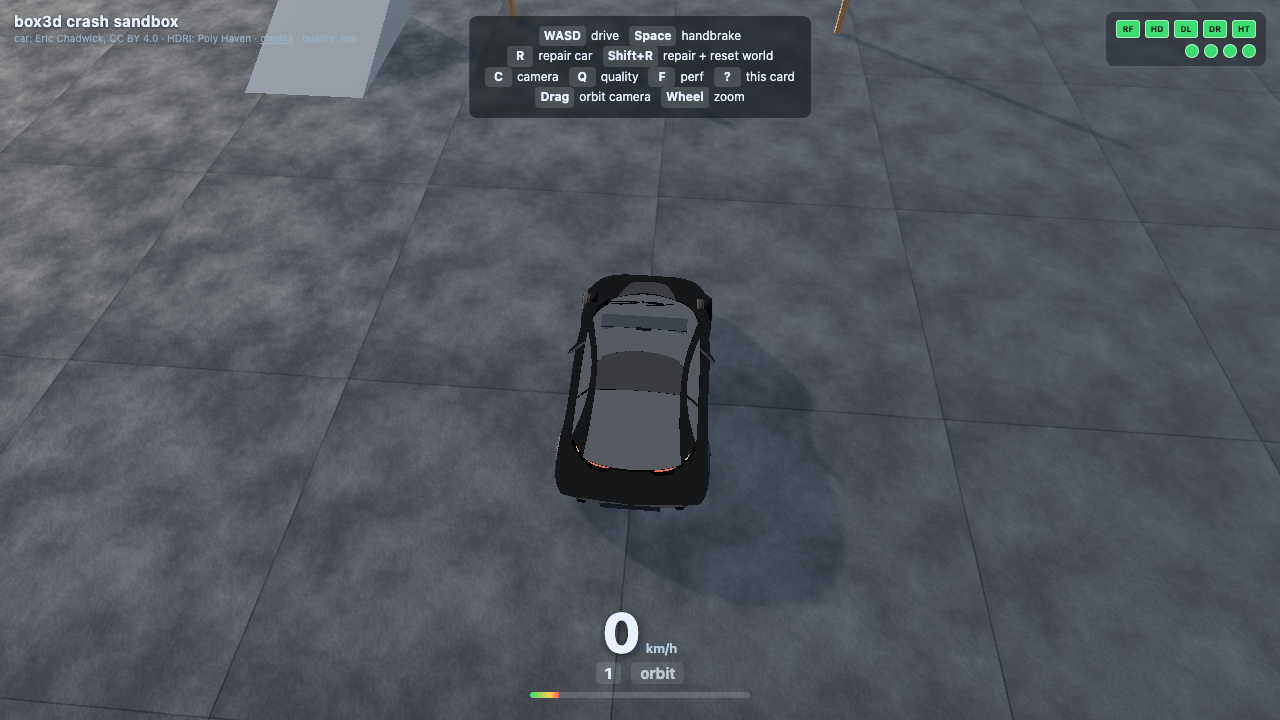
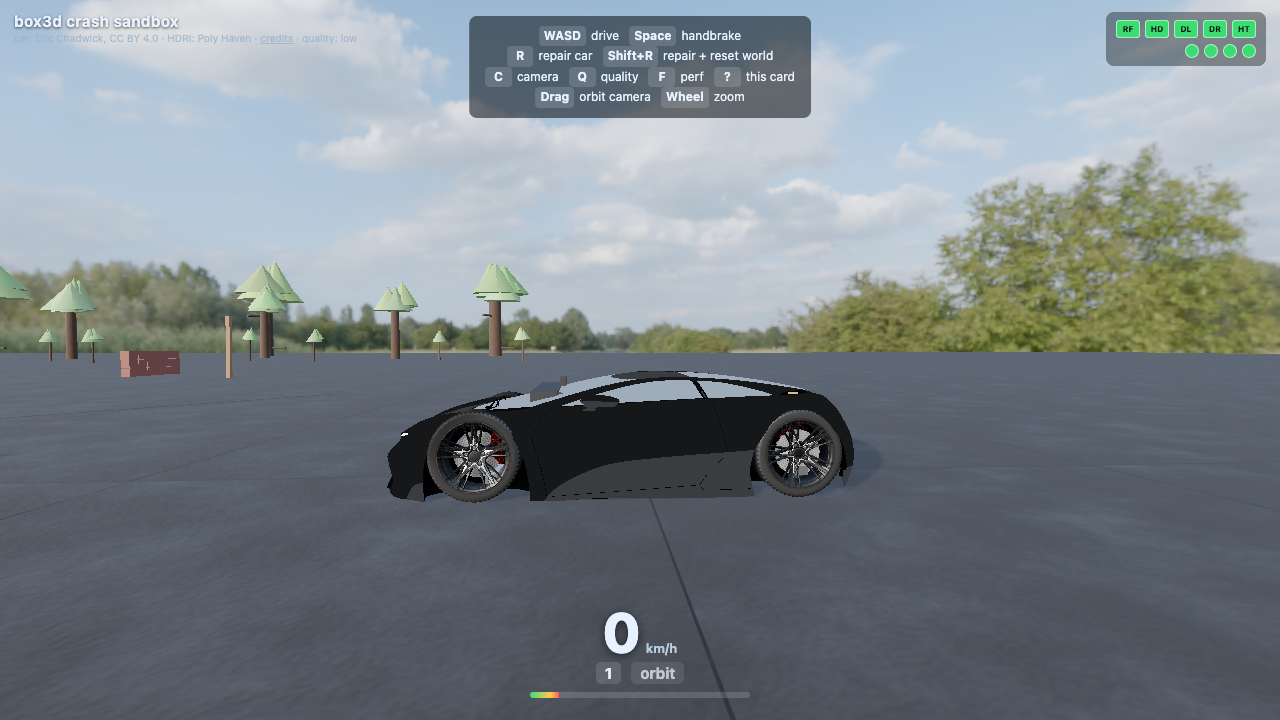
Camera drag: fix inverted axes + click-snap (takeover-seed from live camera pose)
User playtest: drag felt inverted, and clicking lurched the view. Root causes:
first-pass sign convention, and the user-orbit controller only ever seeded at
boot/C-cycle so activating it mid-chase damped toward a stale pose. Drag signs
flipped; takeover now seeds sphericalFromCameraPose(camera, focus) so taking
control is seamless from any camera state. camera-drag.mjs rewritten: second-
drag baseline (1.650 rad measured = 300px * 0.0055 exactly) + permanent no-snap
guard (click+2px < 0.35m) + rebaselined hold-still. 17/17 assertions, 2 runs.

diff --git a/game/src/main.ts b/game/src/main.ts
@@ -15,6 +15,7 @@ import {
   createOrbitUpdater,
   createUserOrbitController,
   sphericalFromCylindrical,
+  sphericalFromCameraPose,
 } from './scene/cameraOrbit';
 import { detachWheelVisuals, applyWheelVisual, type WheelVisual } from './scene/wheels';
 import {
@@ -608,6 +609,16 @@ async function main() {
     const dragDelta = consumeDragDelta();
     const zoomDelta = consumeZoomDelta();
     if (dragDelta.azimuth !== 0 || dragDelta.polar !== 0 || zoomDelta !== 0) {
+      if (cameraMode !== 'orbit' || !userOrbit.active) {
+        // TAKEOVER SEED (user bug: click "resets the camera angle"): the controller's pose was last
+        // seeded at boot/C-cycle, so activating it mid-chase damped the camera toward that stale
+        // pose. Seed from where the camera ACTUALLY is right now, around the car's current focus,
+        // so taking control is seamless from any prior camera state.
+        const currentPos = vehicle.chassis.getPosition();
+        carFocus.x = currentPos.x;
+        carFocus.z = currentPos.z;
+        userOrbit.reset(sphericalFromCameraPose(camera.position, carFocus));
+      }
       cameraMode = 'orbit';
       if (dragDelta.azimuth !== 0 || dragDelta.polar !== 0) userOrbit.drag(dragDelta.azimuth, dragDelta.polar);
       if (zoomDelta !== 0) userOrbit.zoom(zoomDelta);

diff --git a/game/src/scene/cameraOrbit.ts b/game/src/scene/cameraOrbit.ts
@@ -135,3 +135,20 @@ export function sphericalFromCylindrical(radius: number, height: number, azimuth
     radius: Math.hypot(radius, height),
   };
 }
+
+/** Derive the spherical pose of an ACTUAL camera position around `focus` — used to seed the
+ * user-orbit controller at the exact moment the player takes control (first drag/zoom, possibly
+ * from CHASE mode), so taking over never snaps the view (user bug report: clicking "reset the
+ * camera angle" — the controller had only ever been seeded at boot/C-cycle, not at takeover).
+ * Inverse of UserOrbitController.update()'s position formula. */
+export function sphericalFromCameraPose(cameraPos: THREE.Vector3, focus: THREE.Vector3): UserOrbitSpherical {
+  const dx = cameraPos.x - focus.x;
+  const dy = cameraPos.y - focus.y;
+  const dz = cameraPos.z - focus.z;
+  const horiz = Math.hypot(dx, dz);
+  return {
+    azimuth: Math.atan2(dz, dx),
+    polar: Math.atan2(horiz, dy),
+    radius: Math.hypot(horiz, dy),
+  };
+}

diff --git a/game/src/input/pointer.ts b/game/src/input/pointer.ts
@@ -35,10 +35,11 @@ export function installPointerInput(hitTarget: HTMLElement): () => void {
 		const dy = e.clientY - lastClientY;
 		lastClientX = e.clientX;
 		lastClientY = e.clientY;
-		// Drag right -> orbit so the view swings the same way the hand moved; drag up -> tilt the
-		// camera up toward an overhead view.
-		accumAzimuth -= dx * AZIMUTH_SENSITIVITY;
-		accumPolar += dy * POLAR_SENSITIVITY;
+		// Sign convention per user playtest feedback (2026-07-09, "inverted controls"): drag right ->
+		// the camera itself swings right around the car; drag DOWN -> tilt up toward overhead
+		// (grab-the-world feel). Flipped from the first-pass convention.
+		accumAzimuth += dx * AZIMUTH_SENSITIVITY;
+		accumPolar -= dy * POLAR_SENSITIVITY;
 	};
 	const onPointerUp = () => {
 		dragging = false;
